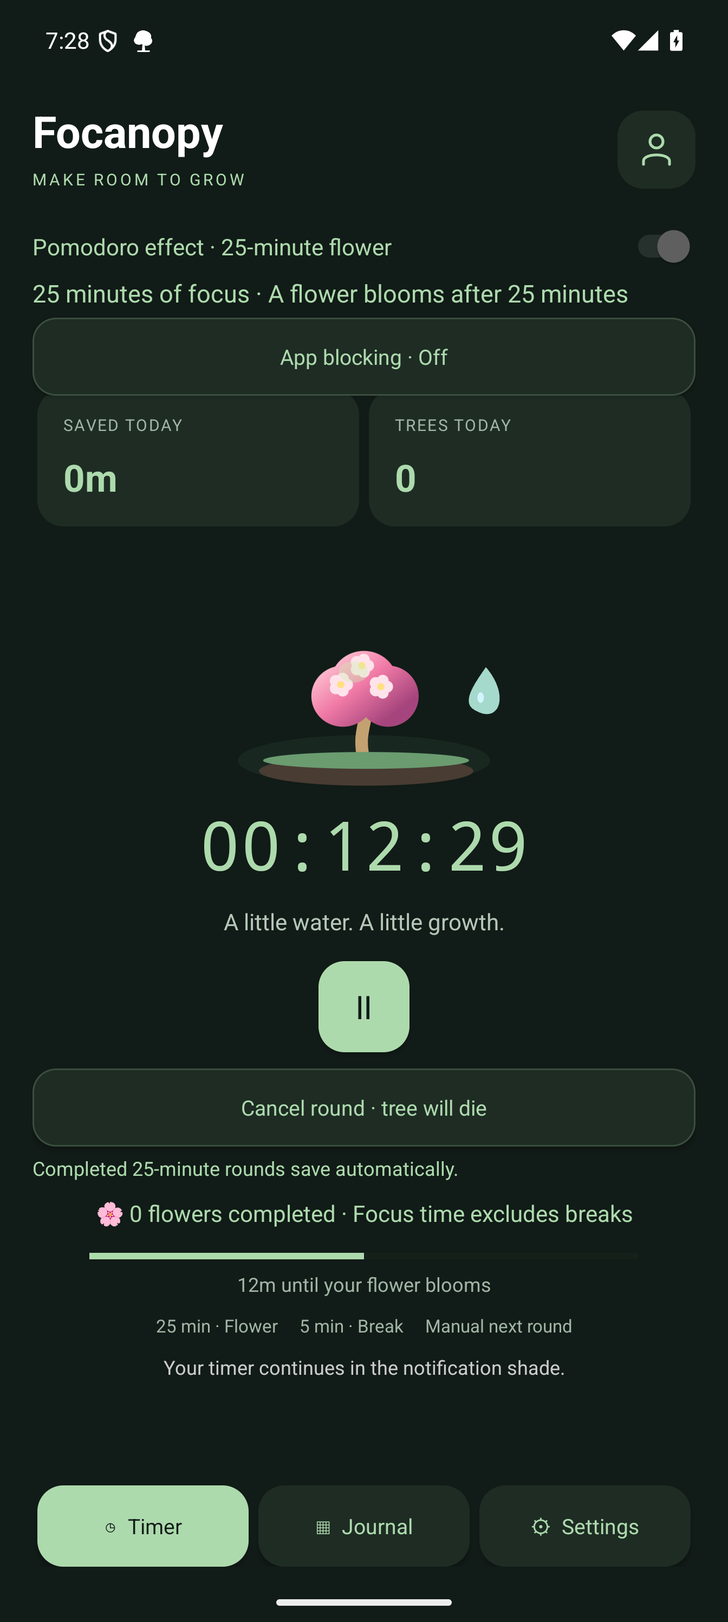
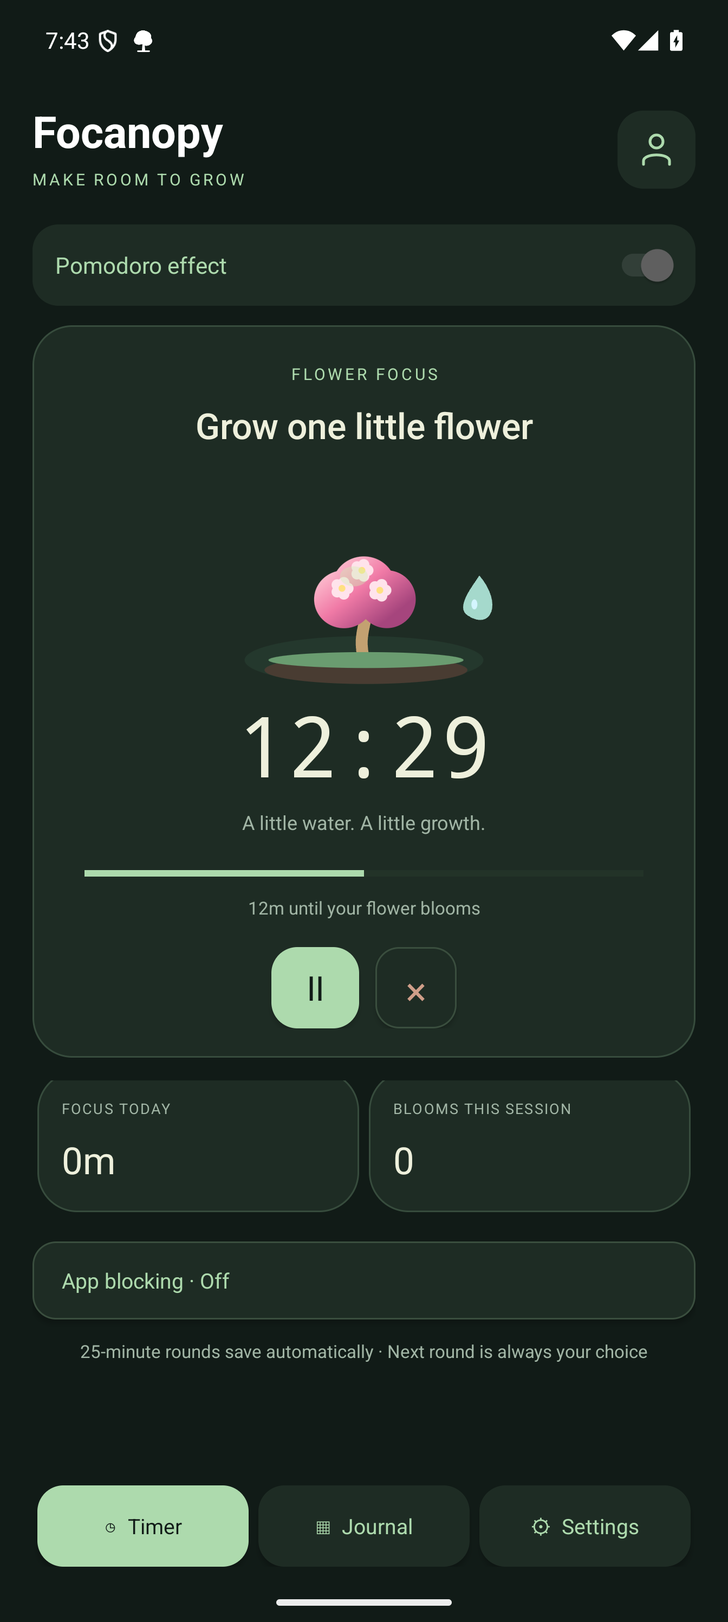
Redesign Pomodoro screens with a cohesive forest-green focus garden

diff --git a/macos/Sources/MochiStopwatch/App.swift b/macos/Sources/MochiStopwatch/App.swift
@@ -83,8 +83,8 @@ final class FloatingPanel: NSPanel {
     nonisolated func userNotificationCenter(_ center:UNUserNotificationCenter,willPresent notification:UNNotification,withCompletionHandler completionHandler:@escaping (UNNotificationPresentationOptions)->Void) { completionHandler([.banner,.sound]) }
     func showFocusSettings() {
         if focusWindow == nil {
-            let w=NSWindow(contentRect:NSRect(x:0,y:0,width:480,height:570),styleMask:[.titled,.closable],backing:.buffered,defer:false)
-            w.title="Focanopy · Flower focus";w.isReleasedWhenClosed=false
+            let w=NSWindow(contentRect:NSRect(x:0,y:0,width:480,height:650),styleMask:[.titled,.closable],backing:.buffered,defer:false)
+            w.title="Focanopy · Focus garden";w.isReleasedWhenClosed=false
             w.contentView=NSHostingView(rootView:FocusPreferences(model:model));w.center();focusWindow=w
         }
         NSApp.activate(ignoringOtherApps:true);focusWindow?.makeKeyAndOrderFront(nil)
@@ -395,44 +395,103 @@ struct MenuContents: View {
 
 struct FocusPreferences:View {
     @ObservedObject var model:Stopwatch
+    @State private var confirmCancel=false
     @AppStorage("focusBlocking") private var blocking=false
     @AppStorage("focusBlockAll") private var blockAll=false
     @State private var excludedIDs:[String] = UserDefaults.standard.stringArray(forKey:"focusExcludedApps") ?? []
     @State private var appIDs: [String] = UserDefaults.standard.stringArray(forKey:"focusBlockedApps") ?? []
+    private let forest=Color(red:17/255,green:27/255,blue:23/255)
+    private let surface=Color(red:30/255,green:44/255,blue:36/255)
+    private var stageTitle:String {
+        switch model.pomodoro.stage {case "dead":return "ROUND CANCELLED";case "break":return "REST & RESET";case "ready":return "READY TO GROW";default:return model.phase == .paused ? "WATERING PAUSED":"FLOWER FOCUS"}
+    }
+    private var headline:String {
+        switch model.pomodoro.stage {case "dead":return "A fresh start awaits";case "break":return "A little room to breathe";case "ready":return "Your next flower is waiting";default:return "Grow one little flower"}
+    }
+    private var countdown:String { let value=Int(max(0,model.displayTime));return String(format:"%02d:%02d",value/60,value%60) }
+    private var progress:Double {
+        if model.pomodoro.stage=="dead" { return 0 }
+        return model.pomodoro.stage=="focus" ? min(1,max(0,1-model.displayTime/1500)):1
+    }
+    private func card<Content:View>(@ViewBuilder _ content:()->Content)->some View {
+        VStack(alignment:.leading,spacing:14,content:content).padding(20).frame(maxWidth:.infinity)
+            .background(surface,in:RoundedRectangle(cornerRadius:22)).overlay(RoundedRectangle(cornerRadius:22).stroke(Color.cyber.opacity(0.13),lineWidth:1))
+    }
     var body:some View {
         ScrollView { VStack(alignment:.leading,spacing:16) {
-            Text("Choose your rhythm").font(.title2.bold())
-            Toggle("Pomodoro effect · 25-minute flower",isOn:Binding(get:{model.pomodoroEnabled},set:{ enabled in
-                model.selectMode(enabled,minutes:model.pomodoro.breakMinutes)
-                if enabled { UNUserNotificationCenter.current().requestAuthorization(options:[.alert,.sound]) { _,_ in } }
-            })).disabled(model.phase != .idle && model.pomodoro.stage != "dead")
-            Text(model.pomodoroEnabled ? "🌸 Flower focus · "+model.pomodoro.stage.capitalized : "🌳 Stopwatch · Grow at your own pace").foregroundStyle(Color.cyber)
+            VStack(alignment:.leading,spacing:5) {
+                Text("Your focus garden").font(.system(size:26,weight:.semibold,design:.rounded))
+                Text("A little time. A little growth.").font(.callout).foregroundStyle(.secondary)
+            }.padding(.bottom,3)
+            card {
+                Toggle(isOn:Binding(get:{model.pomodoroEnabled},set:{ enabled in
+                    model.selectMode(enabled,minutes:model.pomodoro.breakMinutes)
+                    if enabled { UNUserNotificationCenter.current().requestAuthorization(options:[.alert,.sound]) { _,_ in } }
+                })) {
+                    VStack(alignment:.leading,spacing:4) {
+                        Text("Pomodoro effect").font(.headline)
+                        Text("One flower · 25 minutes of focus").font(.caption).foregroundStyle(.secondary)
+                    }
+                }.toggleStyle(.switch).tint(.cyber).disabled(model.phase != .idle && model.pomodoro.stage != "dead")
+            }
             if model.pomodoroEnabled {
-                Picker("Break",selection:Binding(get:{model.pomodoro.breakMinutes},set:{model.selectMode(true,minutes:$0)})) { Text("5 minutes").tag(5);Text("10 minutes").tag(10) }.disabled(model.phase != .idle)
-                Text(model.menuTime).font(.system(size:32,design:.monospaced))
-                Text(model.pomodoro.stage=="dead" ? "This tree died. Start a new 25-minute round to grow a fresh tree." : model.pomodoro.stage=="focus" ? "Water your flower for 25 minutes. Breaks never count as focus time." : model.pomodoro.stage=="break" ? "Your flower bloomed! Stop watering, stretch and move a little." : "Come back when you’re ready — your next flower needs water.")
-                if model.pomodoro.stage != "focus" && model.phase != .finished {
-                    Button(model.pomodoro.stage=="break" ? "Skip break & start next focus" : "Start next 25-minute focus") { model.start() }
+                card {
+                    VStack(spacing:10) {
+                        Text(stageTitle).font(.system(size:10,weight:.semibold)).tracking(2).foregroundStyle(model.pomodoro.stage=="dead" ? Color.orange.opacity(0.7):.cyber)
+                        Text(headline).font(.system(size:22,weight:.medium,design:.rounded))
+                        GrowingTree(phase:["break","ready"].contains(model.pomodoro.stage) ? .finished:model.phase,animated:model.petVisible,flower:true,dead:model.pomodoro.stage=="dead",elapsed:{model.elapsed}).scaleEffect(1.6).frame(height:90)
+                        TimelineView(.periodic(from:.now,by:1)) { _ in
+                            Text(countdown).font(.system(size:48,weight:.medium,design:.monospaced)).monospacedDigit().foregroundStyle(Color(red:0.93,green:0.94,blue:0.86))
+                            ProgressView(value:progress).tint(.cyber)
+                        }
+                        Text(model.pomodoro.stage=="dead" ? "This tree died. Start a fresh round when you’re ready." : model.pomodoro.stage=="break" ? "Flower saved. Stretch, breathe, move a little." : model.pomodoro.stage=="ready" ? "Start when you’re ready. No rush." : "A little water. A little growth.").font(.caption).foregroundStyle(.secondary).multilineTextAlignment(.center)
+                        HStack(spacing:12) {
+                            if ["break","ready"].contains(model.pomodoro.stage) {
+                                Button(model.pomodoro.stage=="break" ? "Skip break & start next round":"Start next round") { model.start() }.buttonStyle(.borderedProminent).tint(.cyber).foregroundStyle(forest)
+                            } else {
+                                Button { if model.phase == .running { model.pause() } else { model.start() } } label: {
+                                    Image(systemName:model.phase == .running ? "pause.fill":"play.fill").frame(width:46,height:42)
+                                }.buttonStyle(.plain).background(Color.cyber,in:RoundedRectangle(cornerRadius:12)).foregroundStyle(forest).help(model.phase == .running ? "Pause":"Start a 25-minute round")
+                                if model.phase != .idle && model.pomodoro.stage != "dead" {
+                                    Button { confirmCancel=true } label:{Image(systemName:"xmark").frame(width:42,height:42)}.buttonStyle(.plain).background(forest,in:RoundedRectangle(cornerRadius:12)).foregroundStyle(Color.orange.opacity(0.7)).help("Cancel round · tree will die")
+                                }
+                            }
+                        }.padding(.top,5)
+                    }.frame(maxWidth:.infinity)
+                    if model.phase == .idle {
+                        Divider().overlay(Color.cyber.opacity(0.15))
+                        Picker("Break after focus",selection:Binding(get:{model.pomodoro.breakMinutes},set:{model.selectMode(true,minutes:$0)})) { Text("5 min").tag(5);Text("10 min").tag(10) }.pickerStyle(.segmented)
+                    }
+                    Text("Completed rounds save automatically. The next round is always your choice.").font(.caption2).foregroundStyle(.secondary).multilineTextAlignment(.center).frame(maxWidth:.infinity)
+                    if ["break","ready"].contains(model.pomodoro.stage) { Button("End Pomodoro") { model.cancelPomodoro() }.font(.caption).foregroundStyle(.secondary) }
                 }
             }
-            Divider()
-            Toggle("Block apps while the timer runs",isOn:$blocking)
-            Picker("Block",selection:$blockAll) { Text("Selected apps").tag(false);Text("All except browsers & exclusions").tag(true) }
-            Text("Pauses and Pomodoro breaks allow apps. System essentials and Focanopy stay available. Your work is never quit.").font(.caption).foregroundStyle(.secondary)
-            Button(blockAll ? "Choose allowed exclusions…" : "Choose apps to block…") { chooseApps() }
-            Text((blockAll ? excludedIDs : appIDs).isEmpty ? "No apps selected" : (blockAll ? excludedIDs : appIDs).joined(separator:"\n")).font(.caption)
-            Button("Clear this list") {
-                let key=blockAll ? "focusExcludedApps" : "focusBlockedApps"
-                UserDefaults.standard.set([String](),forKey:key);UserDefaults.standard.set([String](),forKey:key+"Paths")
-                if blockAll { excludedIDs=[] } else { appIDs=[] }
+            card {
+                Toggle("App blocking",isOn:$blocking).font(.headline).toggleStyle(.switch).tint(.cyber)
+                Text("Make a little room for what matters.").font(.caption).foregroundStyle(.secondary)
+                DisclosureGroup("Apps & permissions") {
+                    VStack(alignment:.leading,spacing:12) {
+                        Picker("Block",selection:$blockAll) { Text("Selected apps").tag(false);Text("All except browsers & exclusions").tag(true) }
+                        Button(blockAll ? "Choose allowed exclusions…":"Choose apps to block…") { chooseApps() }
+                        Text((blockAll ? excludedIDs:appIDs).isEmpty ? "No apps selected":(blockAll ? excludedIDs:appIDs).joined(separator:"\n")).font(.caption).foregroundStyle(.secondary)
+                        Button("Clear this list") {
+                            let key=blockAll ? "focusExcludedApps":"focusBlockedApps"
+                            UserDefaults.standard.set([String](),forKey:key);UserDefaults.standard.set([String](),forKey:key+"Paths")
+                            if blockAll {excludedIDs=[]} else {appIDs=[]}
+                        }
+                        Button("Enable stronger window minimization…") {
+                            let options=[kAXTrustedCheckOptionPrompt.takeUnretainedValue() as String:true] as CFDictionary
+                            _=AXIsProcessTrustedWithOptions(options)
+                        }
+                        Text("Pauses and breaks allow apps. System essentials stay available. Accessibility permission enables stronger window minimization.").font(.caption2).foregroundStyle(.secondary)
+                    }.padding(.top,12)
+                }.font(.callout)
             }
-            Button("Enable stronger window minimization…") {
-                let options=[kAXTrustedCheckOptionPrompt.takeUnretainedValue() as String:true] as CFDictionary
-                _=AXIsProcessTrustedWithOptions(options)
-            }
-            Text("Optional Accessibility permission helps minimize resistant app windows, including Java apps. A blocking screen also prevents clicking through.").font(.caption).foregroundStyle(.secondary)
-            Text("The next round always waits for you. Completed rounds save automatically. Cancel an unfinished round and its tree dies.").font(.caption).foregroundStyle(.secondary)
-        }.padding(24).frame(maxWidth:.infinity) }.frame(width:478,height:580).preferredColorScheme(.dark)
+        }.padding(22) }.frame(width:478,height:650).background(forest).foregroundStyle(Color(red:0.93,green:0.94,blue:0.89)).preferredColorScheme(.dark)
+            .alert("Cancel this round?",isPresented:$confirmCancel) {
+                Button("Keep growing",role:.cancel) {}
+                Button("Cancel round",role:.destructive) { model.cancelPomodoro() }
+            } message:{Text("An unfinished tree will die. Completed 25-minute rounds stay saved.")}
     }
     func chooseApps() {
         let panel=NSOpenPanel();panel.title="Choose distracting apps";panel.allowedContentTypes=[.applicationBundle];panel.allowsMultipleSelection=true;panel.canChooseDirectories=false

diff --git a/android/app/src/main/java/com/cybercat/stopwatch/MainActivity.kt b/android/app/src/main/java/com/cybercat/stopwatch/MainActivity.kt
@@ -42,7 +42,7 @@ class MainActivity: Activity() {
     private val handler=Handler(Looper.getMainLooper())
     private val tick=object:Runnable { override fun run() {
         Repository.advancePomodoro()
-        timer?.text=clockText(Repository.displayTime())
+        timer?.text=timerText()
         cat?.invalidate()
         updateGrowth()
         groveStatus?.text=if(Repository.pomodoroEnabled) "🌸 ${Repository.engine.elapsed()/Pomodoro.FOCUS} flowers completed · Focus time excludes breaks" else Forest.text(Repository.growthElapsed())+(if(Forest.garden(Repository.growthElapsed())) " · Garden grown" else " · One tree per focused hour")
@@ -214,16 +214,61 @@ class MainActivity: Activity() {
             val elapsed=Repository.growthElapsed();growthHint?.text=Forest.nextTreeText(elapsed);growthBar?.progress=((elapsed%Forest.HOUR)*1000/Forest.HOUR).toInt()
         }
     }
+    private fun timerText():String {
+        val ms=Repository.displayTime()
+        return if(Repository.pomodoroEnabled) String.format(java.util.Locale.ROOT,"%02d:%02d",(ms/60000).coerceAtLeast(0),(ms/1000%60).coerceAtLeast(0)) else clockText(ms)
+    }
+    private fun focusCard():LinearLayout = LinearLayout(this).apply {
+        orientation=LinearLayout.VERTICAL;setPadding(dp(20),dp(18),dp(20),dp(18))
+        background=GradientDrawable().apply { setColor(surface);cornerRadius=dp(24).toFloat();setStroke(dp(1),Color.rgb(55,76,61)) }
+    }
+    private fun pomodoroPage() {
+        val muted=Color.rgb(161,181,165);val cream=Color.rgb(238,240,220);val coral=Color.rgb(207,158,137)
+        val dead=pomoStage=="dead";val rest=pomoStage=="break";val ready=pomoStage=="ready"
+        val hero=focusCard();root.addView(hero,LinearLayout.LayoutParams(-1,-2).apply {setMargins(0,dp(12),0,dp(14))})
+        val badge=when {dead->"ROUND CANCELLED";rest->"REST & RESET";ready->"READY TO GROW";phase=="paused"->"WATERING PAUSED";else->"FLOWER FOCUS"}
+        hero.addView(text(badge,10f,if(dead)coral else cyan).apply {letterSpacing=.16f;gravity=Gravity.CENTER})
+        hero.addView(text(when {dead->"A fresh start awaits";rest->"A little room to breathe";ready->"Your next flower is waiting";else->"Grow one little flower"},22f,cream).apply {typeface=Typeface.create("sans-serif-medium",Typeface.NORMAL);gravity=Gravity.CENTER})
+        cat=TreeView(this);hero.addView(cat,LinearLayout.LayoutParams(-1,dp(142)));cat?.refresh()
+        timer=text(timerText(),52f,cream).apply {gravity=Gravity.CENTER;typeface=Typeface.create("monospace",Typeface.NORMAL);setPadding(0,0,0,0);contentDescription="Pomodoro countdown"};hero.addView(timer)
+        hero.addView(text(when {dead->"This tree died. Begin again when you’re ready.";rest->"Flower saved. Stretch, breathe, move a little.";ready->"Start when you’re ready. No rush.";phase=="paused"->"Your flower is resting. Resume to keep growing.";phase=="running"->"A little water. A little growth.";else->"25 minutes, one thing at a time."},12f,muted).apply {gravity=Gravity.CENTER})
+        growthBar=ProgressBar(this,null,android.R.attr.progressBarStyleHorizontal).apply {max=1000;progressTintList=android.content.res.ColorStateList.valueOf(if(dead)coral else cyan);progressBackgroundTintList=android.content.res.ColorStateList.valueOf(Color.rgb(46,65,51));contentDescription="Round progress"}
+        hero.addView(growthBar,LinearLayout.LayoutParams(-1,dp(5)).apply {setMargins(dp(12),dp(16),dp(12),dp(6))})
+        growthHint=text("",11f,muted).apply {gravity=Gravity.CENTER};hero.addView(growthHint)
+        line(hero) {row ->
+            row.gravity=Gravity.CENTER;row.setPadding(0,dp(12),0,0)
+            if(rest || ready) {
+                row.addView(button("Start next round",if(rest)"Skip break & start next focus" else "Start next 25-minute focus") { notifications();Repository.start();service("SYNC");render() }.apply {setTextColor(bg);background=card(cyan)},LinearLayout.LayoutParams(-2,dp(48)))
+            } else {
+                row.addView(button(if(phase=="running")"Ⅱ" else "▶",if(phase=="running")"Pause" else "Start or resume") {notifications();if(Repository.engine.phase=="running")Repository.pause() else Repository.start();service("SYNC");render()}.apply {textSize=21f;setTextColor(bg);background=card(cyan)},LinearLayout.LayoutParams(dp(54),dp(50)))
+                if(phase!="idle" && !dead)row.addView(button("×","Cancel round · tree will die") {cancelPomodoroDialog()}.apply {textSize=24f;setTextColor(coral)},LinearLayout.LayoutParams(dp(50),dp(50)).apply {setMargins(dp(10),0,0,0)})
+            }
+        }
+        if(phase=="idle") {
+            val rhythm=focusCard();root.addView(rhythm,LinearLayout.LayoutParams(-1,-2).apply {setMargins(0,0,0,dp(12))})
+            rhythm.addView(text("MAKE SPACE FOR A BREAK",10f,muted).apply {letterSpacing=.12f})
+            line(rhythm) {row ->for(minutes in listOf(5,10)) row.addView(button("$minutes min") {Repository.selectMode(true,minutes);render()}.apply {background=card(if(Repository.pomodoro.breakMinutes==minutes)Color.rgb(49,78,56) else surface)},LinearLayout.LayoutParams(0,dp(44),1f).apply {setMargins(dp(3),dp(5),dp(3),0)})}
+        }
+        line {row ->
+            for((label,value) in listOf("FOCUS TODAY" to focusText(total(recordsFor(LocalDate.now()))),"BLOOMS THIS SESSION" to (Repository.engine.elapsed()/Pomodoro.FOCUS).toString())) {
+                val metric=focusCard();metric.setPadding(dp(15),dp(12),dp(15),dp(12));metric.addView(text(label,9f,muted).apply {letterSpacing=.08f});metric.addView(text(value,23f,cream))
+                row.addView(metric,LinearLayout.LayoutParams(0,-2,1f).apply {setMargins(dp(3),0,dp(3),dp(12))})
+            }
+        }
+        val on=Repository.prefs.getBoolean("focusBlocking",false)
+        val component=ComponentName(this,FocusAccessibilityService::class.java).flattenToString()
+        val allowed=(Settings.Secure.getString(contentResolver,Settings.Secure.ENABLED_ACCESSIBILITY_SERVICES) ?: "").split(':').any {it.equals(component,true)}
+        root.addView(button("App blocking · "+(if(!on)"Off" else if(!allowed)"Permission needed" else "On")) {focusApps()}.apply {gravity=Gravity.START or Gravity.CENTER_VERTICAL;setPadding(dp(18),0,dp(18),0)})
+        root.addView(text("25-minute rounds save automatically · Next round is always your choice",11f,muted).apply {gravity=Gravity.CENTER;setPadding(dp(8),dp(12),dp(8),dp(4))})
+        if(rest || ready)root.addView(button("End Pomodoro","End Pomodoro · completed rounds saved") {cancelPomodoroDialog()}.apply {setTextColor(muted)})
+        updateGrowth()
+    }
     private fun timerPage() {
         root.addView(android.widget.Switch(this).apply {
-            text="Pomodoro effect · 25-minute flower";isChecked=Repository.pomodoroEnabled;isEnabled=phase=="idle" || pomoStage=="dead"
+            text="Pomodoro effect";contentDescription="Pomodoro effect · 25-minute flower";textSize=14f;setPadding(dp(14),dp(3),dp(10),dp(3));background=card();minHeight=dp(50);isChecked=Repository.pomodoroEnabled;isEnabled=phase=="idle" || pomoStage=="dead"
             setTextColor(cyan);setOnCheckedChangeListener { _,on -> Repository.selectMode(on,Repository.pomodoro.breakMinutes);render() }
         })
-        if(Repository.pomodoroEnabled) {
-            root.addView(text(when(pomoStage) { "dead" -> "Your tree withered · A fresh tree needs a new round"; "break" -> "Your flower bloomed! Stop watering, stretch and move a little."; "ready" -> "Come back when you’re ready — your next flower needs water."; else -> "25 minutes of focus · A flower blooms after 25 minutes" },15f,cyan))
-            if(phase=="idle")line { row -> for(minutes in listOf(5,10)) row.addView(button("$minutes min break") { Repository.selectMode(true,minutes);render() }.apply { alpha=if(Repository.pomodoro.breakMinutes==minutes)1f else .5f },LinearLayout.LayoutParams(0,dp(44),1f)) }
-            if(pomoStage!="focus" && pomoStage!="dead" && phase!="finished")root.addView(button(if(pomoStage=="break")"Skip break & start next focus" else "Start next 25-minute focus") { notifications();Repository.start();service("SYNC");render() })
-        }
+        if(Repository.pomodoroEnabled) {pomodoroPage();return}
         val on=Repository.prefs.getBoolean("focusBlocking",false)
         val all=Repository.prefs.getBoolean("focusBlockAll",false)
         val component=ComponentName(this,FocusAccessibilityService::class.java).flattenToString()
@@ -383,7 +428,7 @@ class MainActivity: Activity() {
         root.addView(text(if(Build.VERSION.SDK_INT<33 || checkSelfPermission(Manifest.permission.POST_NOTIFICATIONS)==PackageManager.PERMISSION_GRANTED) "Notifications enabled · background controls ready" else "Notifications disabled · enable for background controls",13f,Color.LTGRAY))
         root.addView(button("Notification settings") { startActivity(Intent(Settings.ACTION_APP_NOTIFICATION_SETTINGS).putExtra(Settings.EXTRA_APP_PACKAGE,packageName)) })
         root.addView(button("Export session history") { exportHistory() })
-        root.addView(text("Focanopy · 1.8.0",12f,cyan))
+        root.addView(text("Focanopy · 1.8.1",12f,cyan))
         root.addView(text("Swipe the app away without losing the timer. Android’s Force stop, reboot, and some battery managers can stop the service; reopen Focanopy to restore the saved session. No internet or account is needed.",13f,Color.LTGRAY))
     }
 }

diff --git a/desktop/cybercat/app.py b/desktop/cybercat/app.py
@@ -10,7 +10,7 @@ from PySide6.QtCore import Qt, QDate, QRectF, QTimer, QPoint, QPointF, QSize, QS
 from PySide6.QtGui import QColor, QFont, QFontDatabase, QIcon, QPainter, QPainterPath, QPalette, QPen, QPixmap, QPolygonF, QShortcut, QKeySequence
 from PySide6.QtWidgets import (QApplication, QWidget, QVBoxLayout, QHBoxLayout, QLabel, QPushButton,
     QDialog, QComboBox, QDialogButtonBox, QSlider, QCheckBox, QScrollArea, QCalendarWidget,
-    QListWidget, QListWidgetItem, QAbstractItemView, QSystemTrayIcon, QMenu, QMessageBox, QInputDialog, QFileDialog, QFrame)
+    QListWidget, QListWidgetItem, QAbstractItemView, QSystemTrayIcon, QMenu, QMessageBox, QInputDialog, QFileDialog, QFrame, QProgressBar)
 from .model import Store, clock_text, duration_text, device_label
 from .forest import tree_text, cell_text, summary as forest_summary, garden
 from .tree import paint_tree
@@ -503,18 +503,35 @@ class Controller:
         self.popup.move(max(screen.left(), min(pos.x(), screen.right()-350)), max(screen.top(), min(pos.y(), screen.bottom()-self.popup.height())))
         self.popup.show()
 
-    def focus_settings(self):
-        dialog=QDialog(self.pet);dialog.setWindowTitle('Focanopy · Flower focus');dialog.setMinimumWidth(450)
-        layout=QVBoxLayout(dialog);layout.setSpacing(12)
-        layout.addWidget(label('Choose your rhythm','title'))
-        mode=QCheckBox('Pomodoro effect · 25-minute flower');mode.setChecked(self.store.pomodoro_enabled);layout.addWidget(mode)
-        minutes=QComboBox();minutes.addItems(['5-minute break','10-minute break']);minutes.setCurrentIndex(int(self.store.pomodoro.break_minutes==10));layout.addWidget(minutes)
-        status=label('');status.setWordWrap(True);layout.addWidget(status)
+    def focus_settings(self,preview=False):
+        dialog=QDialog(self.pet);dialog.setWindowTitle('Focanopy · Focus garden');dialog.resize(470,690)
+        dialog.setStyleSheet('QScrollBar:vertical{background:#17231b;width:8px;margin:0;} QScrollBar::handle:vertical{background:#3a4e3e;border-radius:4px;min-height:30px;} QScrollBar::add-line:vertical,QScrollBar::sub-line:vertical{height:0;}')
+        shell=QVBoxLayout(dialog);shell.setContentsMargins(4,4,4,4)
+        scroll=QScrollArea();scroll.setWidgetResizable(True);container=QWidget();scroll.setWidget(container);shell.addWidget(scroll)
+        layout=QVBoxLayout(container);layout.setContentsMargins(20,20,20,20);layout.setSpacing(16)
+        layout.addWidget(label('Your focus garden','title'));layout.addWidget(label('A little time. A little growth.','subtitle'))
+        mode=QCheckBox('Pomodoro effect · One flower, 25 minutes');mode.setChecked(self.store.pomodoro_enabled)
+        mode.setStyleSheet('padding:14px; background:#1e2c24; border-radius:12px;');layout.addWidget(mode)
+        hero=QFrame();hero.setObjectName('focusHero');hero.setStyleSheet('QFrame#focusHero {background:#1e2c24;border:1px solid #374c3d;border-radius:22px;} QFrame#focusHero QLabel {background:transparent;}')
+        box=QVBoxLayout(hero);box.setContentsMargins(22,20,22,20);box.setSpacing(12)
+        badge=label('FLOWER FOCUS');badge.setAlignment(Qt.AlignmentFlag.AlignCenter);badge.setStyleSheet('color:#addaad;font-size:10px;font-weight:600;');box.addWidget(badge)
+        heading=label('Grow one little flower');heading.setAlignment(Qt.AlignmentFlag.AlignCenter);heading.setStyleSheet('font-size:21px;color:#eef0dc;');box.addWidget(heading)
+        tree=GrowingTree(self);tree.setFixedSize(245,129);tree.setAttribute(Qt.WidgetAttribute.WA_TransparentForMouseEvents);tree.setStyleSheet('background:transparent;');box.addWidget(tree,0,Qt.AlignmentFlag.AlignHCenter)
+        status=label('');status.setAlignment(Qt.AlignmentFlag.AlignCenter);status.setFont(QFont('Noto Sans Mono',35));status.setStyleSheet("color:#eef0dc;font-family:'Noto Sans Mono';font-size:46px;");box.addWidget(status)
+        hint=label('');hint.setWordWrap(True);hint.setAlignment(Qt.AlignmentFlag.AlignCenter);hint.setStyleSheet('color:#a1b5a5;font-size:11px;');box.addWidget(hint)
+        progress=QProgressBar();progress.setRange(0,1000);progress.setTextVisible(False);progress.setFixedHeight(5);progress.setStyleSheet('QProgressBar{background:#2e4133;border:0;border-radius:2px;} QProgressBar::chunk{background:#addaad;border-radius:2px;}');box.addWidget(progress)
+        controls=QHBoxLayout();controls.addStretch()
+        play=button('▶',lambda:(self.primary(),update()),'Start or pause focus');play.setFixedSize(48,44);play.setStyleSheet('background:#395b3d;border:1px solid #567e58;border-radius:12px;');controls.addWidget(play)
+        cancel_round=button('×',lambda:(self.cancel(),update()),'Cancel round · tree will die');cancel_round.setFixedSize(44,44);cancel_round.setStyleSheet('color:#cf9e89;background:#17231b;border-radius:12px;');controls.addWidget(cancel_round)
+        next_round=button('Start next round',lambda:(self.safe(self.store.start),self.refresh(),update()));controls.addWidget(next_round);controls.addStretch();box.addLayout(controls)
+        minutes=QComboBox();minutes.addItems(['5-minute break','10-minute break']);minutes.setCurrentIndex(int(self.store.pomodoro.break_minutes==10));box.addWidget(minutes)
+        foot=label('Completed rounds save automatically.\nThe next round is always your choice.','subtitle');foot.setAlignment(Qt.AlignmentFlag.AlignCenter);box.addWidget(foot)
+        end_cycle=button('End Pomodoro',lambda:(self.safe(self.store.cancel_pomodoro),self.refresh(),update()));box.addWidget(end_cycle)
+        layout.addWidget(hero)
         def apply_mode():
-            self.safe(lambda:self.store.select_mode(mode.isChecked(),10 if minutes.currentIndex() else 5));self.refresh()
+            self.safe(lambda:self.store.select_mode(mode.isChecked(),10 if minutes.currentIndex() else 5));self.refresh();update()
         mode.toggled.connect(apply_mode);minutes.currentIndexChanged.connect(apply_mode)
-        mode.setEnabled(self.store.phase=='idle' or self.store.pomodoro.stage=='dead');minutes.setEnabled(self.store.phase=='idle')
-        next_round=button('Start next focus / skip remaining break',lambda:(self.safe(self.store.start),self.refresh()));layout.addWidget(next_round)
+        layout.addWidget(label('A little room for what matters','subtitle'))
         blocking=QCheckBox('Block apps while the timer runs');blocking.setChecked(self.store.settings.get('focus_blocking',False));layout.addWidget(blocking)
         blocking.toggled.connect(lambda value:self.safe(lambda:self.store.setting('focus_blocking',value)))
         note=label('Apps stay open and keep their data. Pauses and Pomodoro breaks allow apps. You can turn blocking off at any time.');note.setWordWrap(True);layout.addWidget(note)
@@ -547,12 +564,24 @@ class Controller:
                 except Exception as error:QMessageBox.warning(dialog,'GNOME setup',str(error))
             layout.addWidget(button('Install optional GNOME focus extension',install))
         def update():
-            s=self.store
-            status.setText((('Tree died · start a fresh round' if s.pomodoro.stage=='dead' else '🌸 '+clock_text(s.display_time))+' · '+s.pomodoro.stage.capitalize()+'\n'+('Stop watering, stretch and move a little.' if s.pomodoro.stage=='break' else 'Come back when you’re ready — your next flower needs water.' if s.pomodoro.stage=='ready' else 'A flower blooms after 25 minutes of focus.')) if s.pomodoro_enabled else '🌳 Stopwatch · No scheduled breaks')
-            next_round.setVisible(s.pomodoro_enabled and s.pomodoro.stage not in ('focus','dead') and s.phase!='finished')
-            mode.setEnabled(s.phase=='idle' or s.pomodoro.stage=='dead');minutes.setEnabled(s.phase=='idle')
+            s=self.store;stage=s.pomodoro.stage
+            hero.setVisible(s.pomodoro_enabled)
+            badge.setText({'break':'REST & RESET','ready':'READY TO GROW','dead':'ROUND CANCELLED'}.get(stage,'WATERING PAUSED' if s.phase=='paused' else 'FLOWER FOCUS'))
+            heading.setText({'break':'A little room to breathe','ready':'Your next flower is waiting','dead':'A fresh start awaits'}.get(stage,'Grow one little flower'))
+            seconds=max(0,int(s.display_time));status.setText(f'{seconds//60:02}:{seconds%60:02}')
+            hint.setText({'break':'Flower saved. Stretch, breathe, move a little.','ready':'Start when you’re ready. No rush.','dead':'This tree died. Begin again when you’re ready.'}.get(stage,'Your flower is resting.' if s.phase=='paused' else 'A little water. A little growth.'))
+            progress.setValue(0 if stage=='dead' else 1000 if stage!='focus' else int(max(0,min(1,1-s.display_time/1500))*1000))
+            next_round.setVisible(stage in ('break','ready'));end_cycle.setVisible(stage in ('break','ready'))
+            play.setVisible(stage not in ('break','ready'));play.setIcon(action_icon('Ⅱ' if s.phase=='running' else '▶'))
+            cancel_round.setVisible(s.phase!='idle' and stage=='focus')
+            mode.setEnabled(s.phase=='idle' or stage=='dead');minutes.setVisible(s.phase=='idle')
+            tree.update()
+            if dialog.isVisible() and not dialog.isMinimized() and s.phase=='running' and s.settings.get('animation',True):tree.animation.start(50)
+            else:tree.animation.stop()
         timer=QTimer(dialog);timer.timeout.connect(update);timer.start(500);update()
-        layout.addWidget(button('Close',dialog.accept));dialog.exec();timer.stop()
+        shell.addWidget(button('Close',dialog.accept));dialog.finished.connect(lambda: (timer.stop(),tree.animation.stop()))
+        if preview:return dialog
+        dialog.exec();timer.stop();tree.animation.stop();dialog.deleteLater()
 
     def enable_gnome(self):
         if self.safe(install_gnome):

diff --git a/desktop/render_screenshots.py b/desktop/render_screenshots.py
@@ -22,6 +22,10 @@ def main():
         controller=Controller(app,model);controller.show_history();app.processEvents()
         assert controller.history.grab().save(str(out/f'{args.platform}-journal.png'))
         assert controller.pet.grab().save(str(out/f'{args.platform}-pet.png'))
+        model.select_mode(True);model.start();model.accumulated=750;model.anchor=model.clock()
+        focus=controller.focus_settings(preview=True);focus.show();app.processEvents()
+        assert focus.grab().save(str(out/f'{args.platform}-pomodoro.png'))
+        focus.close()
         controller.tick.stop();controller.persist.stop();controller.shortcuts.close();controller.tray.hide();controller.pet.cat.animation.stop()
 
 if __name__=='__main__':main()

diff --git a/RELEASE_NOTES.md b/RELEASE_NOTES.md
@@ -1,8 +1,7 @@
-# Focanopy 1.8.0 · Grow it or let it go
+# Focanopy 1.8.1 · A calmer focus garden
 
-- Pomodoro runs a full 25-minute focus round with no early Finish action in the app, floating timer, menus, shortcuts or Android notification.
-- Completed rounds save automatically as Pomodoro focus; rename them in the journal. Multiple completed rounds update the same session without duplicate time.
-- Cancelling an unfinished round kills its tree: brown foliage, fallen petals, stopped watering and a visible dead-tree state that survives relaunch.
-- Partial cancelled rounds do not add to saved focus time. Earlier completed rounds remain saved. Start again to grow a fresh tree from 25 minutes.
-- Cancelling during a completed round’s break exits the cycle without killing its completed tree. Pausing still rests the tree; the next round remains manual.
-- The default stopwatch retains Finish, naming and ordinary save behavior. Existing histories and account storage formats remain compatible.
+- Redesigned Android Pomodoro with a dedicated forest-green focus card, warm cream countdown, centered flowering tree, compact icon controls and subtle round progress.
+- Focus, pause, break, ready and cancelled rounds have clearer titles and guidance. Break choices, saved focus and app-blocking settings have their own spacious sections.
+- Redesigned the native macOS focus window with matching rounded cards, a live flower preview, prominent countdown, compact controls and expandable app-blocking permissions.
+- Windows and Ubuntu receive a matching scrollable focus garden with a live flower preview and clearer controls.
+- Existing 25-minute timing, automatic saving, manual next rounds and cancelled-tree behavior remain intact.

diff --git a/README.md b/README.md
@@ -33,6 +33,8 @@ Screenshots are captured from the actual native Android app on an isolated Andro
 
 ### Stopwatch with an optional Flower Pomodoro
 
+Pomodoro shares Focanopy’s forest-green surfaces, warm cream countdown, rounded cards and soft flower accents. Focus, break and cancelled states each have a clear title, with compact controls and quieter app-blocking settings.
+
 Start with the default stopwatch, or enable the optional **Pomodoro effect**: 25 minutes of focus grows a pink flowering tree, followed by a 5- or 10-minute break. Watering stops for the break, a gentle reminder asks you to move, and another invites you back. **You start every next round yourself.** Completed 25-minute rounds save automatically. Pomodoro has no Finish button: cancelling an unfinished round kills its tree and discards that partial round; previously completed rounds stay saved. Breaks never count toward focus time.
 
 ![Native Pomodoro flower growth](docs/screenshots/pomodoro-flower-milestones.png)
